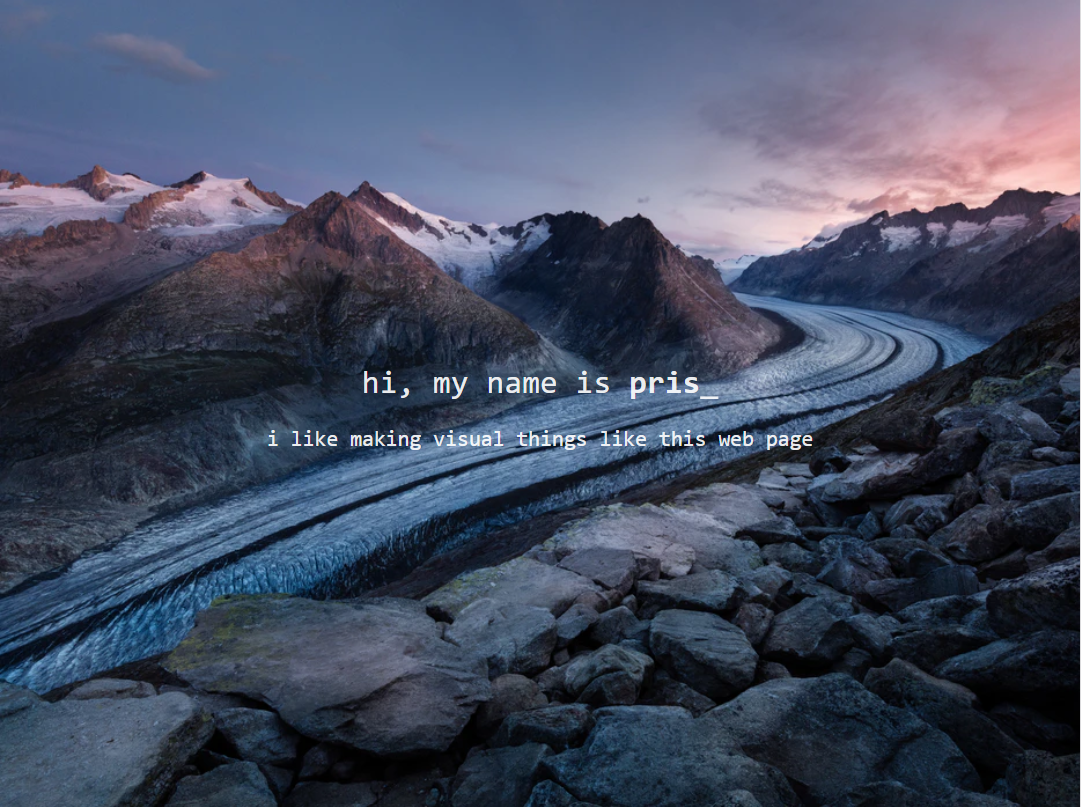
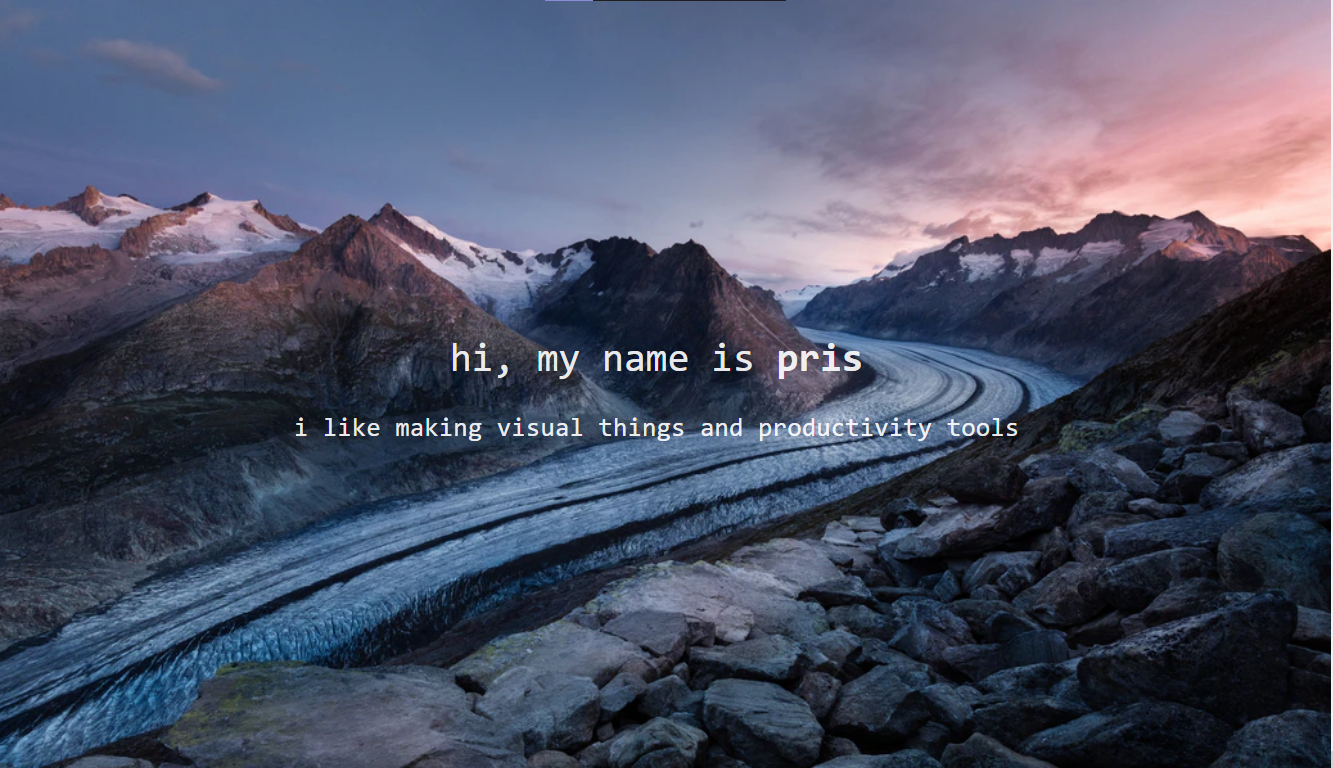
Polishing sizes and adding projects listed

diff --git a/index.html b/index.html
@@ -26,7 +26,7 @@
         <h1>hi, my name is <strong>pris</strong>
             <!-- <span class="animate-stuff">_</span> -->
         </h1>
-        <h3>i like making visual things and java projects</h3>
+        <h3>i like making visual things and productivity tools</h3>
     </div>
     <div id="about-me-section" class="section ">
         <h3 class="section-header">a little about me</h3>
@@ -38,7 +38,7 @@
                 <p><strong>My programming story starts with excel trackers and game simulators.</strong> What started as
                     creating excel and VBA applications led me to decide that I want to build even more types of tech
                     applications, so I'm now working on programming. </p>
-                <p><strong>I'm a Year 2 Computer Science undergrad</strong> and I love creating visual projects like websites. I also love to create tools for improving productivity, like timers that use the pomodoro
+                <p><strong>I'm a Year 3 Computer Science undergraduate</strong> and I love creating visual projects like websites. I also love to create tools for improving productivity, like timers that use the pomodoro
                     technique, and tools that help you track self-improvement. Below you'll find some of my
                     works-in-progress.</p>
             </div>
@@ -66,74 +66,109 @@
                 <li>Java</li>
                 <li>Javascript</li>
                 <li>Python</li>
-                <li>C</li>
+                <!-- <li>C</li> -->
             </div>
         </div>
     </div>
     <!-- <p class="divider">------</p> -->
     <div id="project-section" class="section">
-        <h3 class="section-header">my projects</h3>
-        
+        <h3 id="my-projects" class="section-header">my projects</h3>
         <div id="projects" class="body-sections">
-            <div id="item1" class="project-item col-md-4 col-xs-12">
-                <div class="thumbnail">
-                    <a href="https://codepen.io/ppris/full/BajXBjQ" target="_blank">
-                        <img src="thumbnail_3_4/quote-gen-thumbnail-1.png" alt="quote generator thumbnail">
-                    </a>
+            <div class=row>
+                <div id="item1" class="project-item col-md-4 col-xs-8 col-xs-offset-2 col-md-offset-0"> 
+                    <!-- xs will apply to any larger size, e.g. to sm. so offset has to be reset for md -->
+                    <div class="thumbnail">
+                        <a href="https://codepen.io/ppris/full/BajXBjQ" target="_blank">
+                            <img src="thumbnail_3_4/quote-gen-thumbnail-1.png" alt="quote generator thumbnail">
+                        </a>
+                    </div>
+                    <div class="caption">
+                        <p class="proj-title">Quote Generator</p>
+                        <p>Display a quote with a refreshing background image from unsplash.</p>
+                    </div>
+                    <div class="tech-used">
+                        <img src="logos/html_logo.png">
+                        <img src="logos/css3_logo.png">
+                        <img src="logos/js-logo.png">
+                    </div>
                 </div>
-                <div class="caption">
-                    <p class="proj-title">Quote Generator</p>
-                    <p>Display a quote with a refreshing background image from unsplash.</p>
+                <div class="project-item col-md-4 col-xs-8 col-xs-offset-2 col-md-offset-0">
+                    <div class="thumbnail">
+                        <a href="https://github.com/pPris/cuckoo" target="_blank">
+                            <img src="thumbnail_3_4/cuckoo-thumbnail-1.png" alt="thumbnail of a cuckoo clone project">
+                        </a>
+                    </div>
+                    <div class="caption">
+                        <p class="proj-title">Cuckoo.team website Clone</p>
+                        <p>Recreating a website I personally like using react.</p>
+                    </div>
+                    <div class="tech-used">
+                        <img src="logos/html_logo.png">
+                        <img src="logos/css3_logo.png">
+                        <img src="logos/js-logo.png">
+                        <img src="logos/react.svg">
+                    </div>
                 </div>
-                <div class="tech-used">
-                    <img src="logos/html_logo.png">
-                    <img src="logos/css3_logo.png">
-                    <img src="logos/js-logo.png">
+                <div id="item1"  class="project-item col-md-4 col-xs-8 col-xs-offset-2 col-md-offset-0">
+                    <div class="thumbnail">
+                        <a href="https://github.com/pPris/ip/tree/master/docs" target="_blank">
+                            <img src="thumbnail_3_4/ip-ui.png" alt="java task manager thumbnail">
+                        </a>
+                    </div>
+                    <div class="caption">
+                        <p class="proj-title">task manager application</p>
+                        <p>A chat bot that manages your tasks.</p>
+                    </div>
+                    <div class="tech-used">
+                        <img src="logos/java-longer-logo.png">
+                    </div>
                 </div>
             </div>
-            <div class="project-item col-md-4 col-xs-12">
-                <div class="thumbnail">
-                    <a href="https://github.com/pPris/cuckoo" target="_blank">
-                        <img src="thumbnail_3_4/cuckoo-thumbnail-1.png" alt="thumbnail of a cuckoo clone project">
-                    </a>
+            <div class="row">
+                <div id="item1"  class="project-item col-md-4 col-md-offset-2 col-xs-8 col-xs-offset-2">
+                    <div class="thumbnail">
+                        <a href="https://ay2021s2-cs2103t-t11-4.github.io/tp/" target="_blank">
+                            <img src="thumbnail_3_4/tp-ui.png" alt="java cakecollate thumbnail">
+                        </a>
+                    </div>
+                    <div class="caption">
+                        <p class="proj-title">cakecollate</p>
+                        <p>An application to collate orders for a home business, made by a team of five.</p>
+                    </div>
+                    <div class="tech-used">
+                        <img src="logos/java-longer-logo.png">
+                    </div>
                 </div>
-                <div class="caption">
-                    <p class="proj-title">Cuckoo.team website Clone</p>
-                    <p>Recreating a website I personally like using react.</p>
-                </div>
-                <div class="tech-used">
-                    <img src="logos/html_logo.png">
-                    <img src="logos/css3_logo.png">
-                    <img src="logos/js-logo.png">
-                    <img src="logos/react.svg">
+                <div id="item1" class="project-item col-md-4 col-xs-8 col-xs-offset-2 col-md-offset-0">
+                    <div class="thumbnail">
+                        <a href="#my-projects">
+                            <img src="thumbnail_3_4/portfolio-aspect-3-4.png" alt="portfolio website thumbnail">
+                        </a>
+                    </div>
+                    <div class="caption">
+                        <p class="proj-title">web portfolio</p>
+                        <p>A place to consolidate my projects and my skills in a visual manner</p>
+                    </div>
+                    <div class="tech-used">
+                        <img src="logos/html_logo.png">
+                        <img src="logos/css3_logo.png">
+                        <img src="logos/js-logo.png">
+                        <img src="logos/bootstrap3_logo.png">
+                    </div>
                 </div>
             </div>
-            <div id="item1"  class="project-item col-md-4 col-xs-12">
-                <div class="thumbnail">
-                    <a href="https://github.com/pPris/ip/tree/master/docs" target="_blank">
-                        <img src="thumbnail_3_4/ip-ui.png" alt="java task manager thumbnail">
-                    </a>
-                </div>
-                <div class="caption">
-                    <p class="proj-title">task manager application</p>
-                    <p>A chat bot that manages your tasks.</p>
-                </div>
-                <div class="tech-used">
-                    <img src="logos/java-longer-logo.png">
-                </div>
-            </div>
-            
-            <!-- can't add extra rows that easily... a thumbnail on the next row displays under the smallest project-item -->
-            <!-- find extra project tile for this portfolio and rails todo app in previous commits -->
+            <!-- need row class to add extra rows properly. may need container class for any potential bugs -->
         </div>
     </div>
-    <div class="more-details">
+    <div class="more-details complement">
         <!-- ideally this div should be part of the projects div -->
-        <p class="center">View more projects <a href="https://github.com/pPris" alt="link to github projects">on my github pinned projects section</a></p>
+        <!-- <p class="center subtitle">View more projects <a href="https://github.com/pPris" alt="link to github projects">on my github pinned projects section</a></p> -->
+        <h3 class="section-header">Open-sourced contributions</h3>
+        <p class="center subtitle">I have also contributed to the open-sourced repo, TEAMMATES. <a href="https://github.com/pPris?tab=overview&from=2021-08-01&to=2021-08-30&org=TEAMMATES#js-contribution-activity" alt="link to github profile for teammates activity">Here's a list of my merged and ongoing PRs</a> on my github profile.</p>
     </div>
     <div id="footer" class="section accent-background-translucent">
         <h3 class="section-header has-subtitle">contact me!</h3>
-        <p>i would love to hear from you</p>
+        <p class="subtitle">i would love to hear from you</p>
         <p><a href="https://github.com/pPris" target="_blank"><img src="logos/github.png" alt="github icon"></a>
         <p><a href="#welcome-section">scroll to top</a></p>
     </div>

diff --git a/style.css b/style.css
@@ -3,6 +3,7 @@ html {
   --accent1: #25c5ff;
   --accent1_o: #00bbff60;
   --accent2: #c7acb8;
+  --a1comp: #674fff70;
 }
 
 body {
@@ -13,6 +14,11 @@ body {
   flex-direction: column;
 
   font-size: larger;
+  font-family: "Open Sans", sans-serif;
+}
+
+h1, h2, h3, .subtitle, .proj-title {
+  font-family: monospace;
 }
 
 #welcome-section {
@@ -27,6 +33,10 @@ body {
     flex-direction: column;
     justify-content: center;
     align-items: center;
+}
+
+.row {
+  margin: 10px;
 }
 
 #welcome-section h1,
@@ -87,9 +97,7 @@ body {
 
 .proj-title {
   font-weight: bold;
-  font-size: 16px;
-    font-size: 16px;   
-  font-size: 16px;
+  font-size: 19px;
   text-transform: lowercase;
 }
 
@@ -204,10 +212,6 @@ p {
   font-size: 16px;
 }
 
-.proj-title {
-  font-size: 18px;
-}
-
 .accent-background {
   background-color: var(--accent1);
   /* color: white; */
@@ -215,6 +219,10 @@ p {
 
 .accent-background-translucent {
   background-color: var(--accent1_o);
+}
+
+.complement {
+  background-color: var(--a1comp);
 }
 
 .has-subtitle {
@@ -227,6 +235,7 @@ p {
 
 .center {
   text-align: center;
+  margin: 30px;
 }
 
 .more-details {
@@ -260,18 +269,28 @@ p {
     45deg,
     white       0px,
     white       20px,
-    #b0efffbb   20px,
-    rgb(176, 217, 255, 0.4) 40px,
+    #c3f3ffbb   20px,
+    rgba(203, 230, 255, 0.4) 40px,
     white                   40px,
     white                   60px,
-    rgb(176, 217, 255, 0.4) 60px,
-    rgb(176, 217, 255, 0.4) 80px
+    rgba(193, 225, 255, 0.5) 60px,
+    rgba(184, 220, 255, 0.4) 80px
   );
 
-  font-weight: bold;
+  /* font-weight: 100; */
 }
 
-@media only screen and (max-width: 768px) {
+#skills-section h4 {
+  font-weight: 900;
+}
+
+#skills-section li {
+  font-size: 16px;
+  font-weight: lighter;
+  padding: 2px;
+}
+
+@media only screen and (max-width: 992px) {
     /* For mobile phones: */
     .skills-column {
         margin: 10px;
